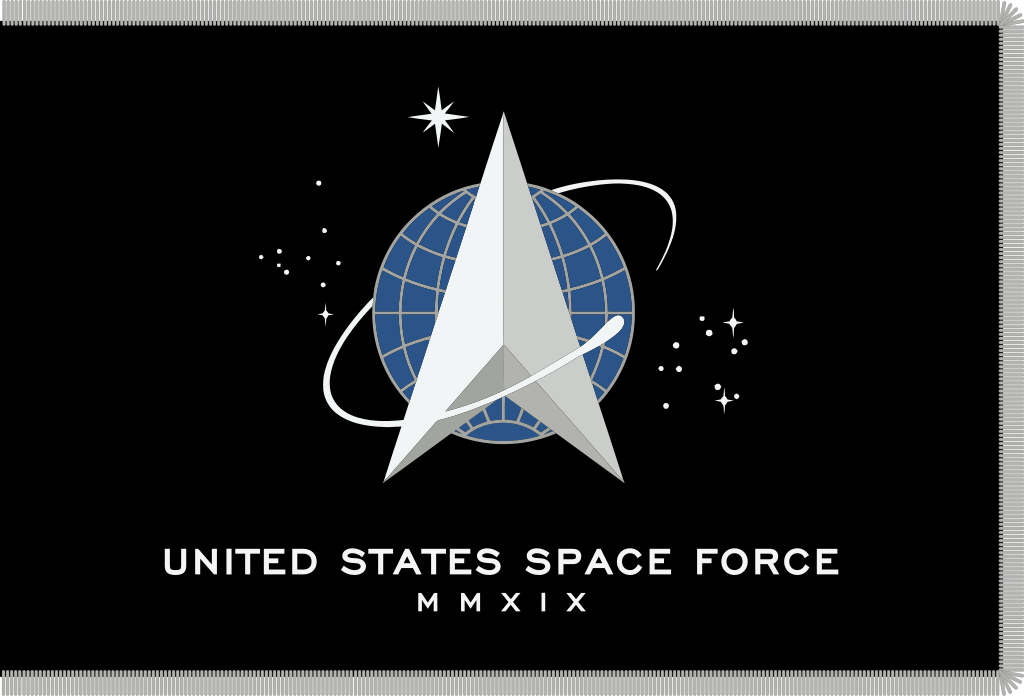
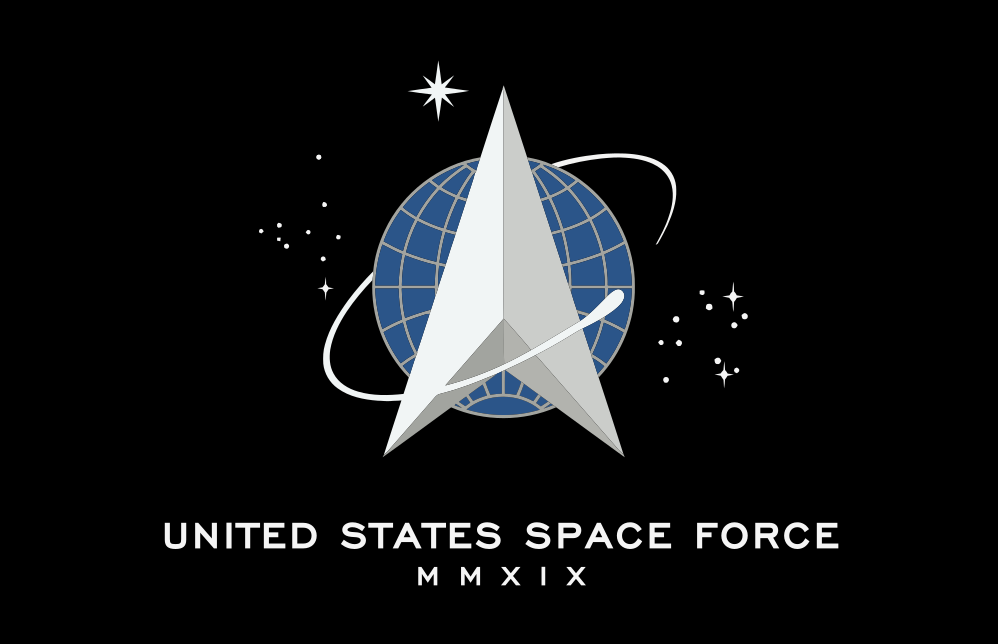
reorganized header, added clean flag

diff --git a/frontend/checker/src/App.css b/frontend/checker/src/App.css
@@ -16,40 +16,35 @@ h2 {
   background-color: rgb(187, 176, 176, 0.9);
 }
 
-team {
+.team {
   background-image: linear-gradient(silver, rgb(29, 79, 95)), radial-gradient(circle at top left, grey,navy);
 }
-#jacob {
+
+.team > img{
+  
+  height: 100px;
+  width: 100px;
+
+}
+
+.member {
   display: flex;
-  flex-direction: column;
+  flex-direction: row;
   justify-content: center;
   align-items: center;
+}
+
+#jacob {
+  /* display: flex;
+  flex-direction: column;
+  justify-content: center;
+  align-items: center; */
 }
 
 #jacob > article {
   background-color: rgb(187, 176, 176, 0.9);
 }
 
-#ryan {
-  display: flex;
-  flex-direction: column;
-  justify-content: center;
-  align-items: center;
-}
-
-#ronald {
-  display: flex;
-  flex-direction: column;
-  justify-content: center;
-  align-items: center;
-}
-
-#josh {
-  display: flex;
-  flex-direction: column;
-  justify-content: center;
-  align-items: center;
-}
 
 .score {
   color: red;
@@ -75,9 +70,11 @@ button {
   cursor: crosshair;
   transition: border-color 0.25s;
 }
+
 button:hover {
   border-color: silver;
 }
+
 button:focus,
 button:focus-visible {
   outline: 4px auto -webkit-focus-ring-color;
@@ -85,10 +82,8 @@ button:focus-visible {
 
 header {
     position: center;
-    /* top: auto ; */
     width: 100%;
-    /* height: 16vh; */
-    margin: -0.4rem;
+    margin: 0;
     background: darkgray;
     border: solid transparent .4rem;
     
@@ -108,6 +103,12 @@ header {
 
 }
 
+header > mid > icons {
+  display: flex;
+  flex-direction: row;
+  justify-content: space-around;
+}
+
 body {
   background-image: url(assets/images/Flag_of_the_United_States_Space_Force.png);
   background-position-y: center;
@@ -117,14 +118,12 @@ body {
     background-repeat: no-repeat;
     background-color: rgb(189, 186, 186, .4);
     width: 100%;
-    /* height: 100%; */
 
     margin: 0;
-  display: flex;
   place-items: center;
   justify-content: space-around;
-  min-width: 100;
-  min-height: 100vh;
+  min-width: auto;
+  max-height: 100%;
 }
 
 main {
@@ -138,15 +137,13 @@ main {
     width: 100%;
     margin: auto;
     display: flex;
-
-    
 }
 
 ul {
   list-style: none;
 }
 
-p1 {
+.p1 {
   border: solid 3px rgba(169, 169, 169, 0.4);
     background-image: url(assets/images/tardigrade1.jpg);
     grid-area: "p1";
@@ -156,15 +153,16 @@ p1 {
     background-size: cover;
     background-repeat: no-repeat;
     background-size: 100px; */
-    width: 200px;
+    width: 100px;
     height: 100px;
     
 }
 
-p2 {
+.p2 {
   border: solid 3px rgba(169, 169, 169, 0.4);
     background: rgba(169, 169, 169, 0.7) transparent;
 }
+
 article {
   flex-direction: column;
 
@@ -176,11 +174,13 @@ game-board {
     background-color: rgb(189, 186, 186, .4);
     width: -moz-fit-content;
     width: fit-content;
+    max-width: auto;
     
   border: solid 4px rgb(8, 8, 8, 0.3);
   border-radius: 5px;
+  grid-area: "board";
   display: flex;
-  flex-direction: column;
+  /* flex-direction: column; */
   position: center;
   align-self: center;
   cursor: crosshair;
@@ -214,12 +214,6 @@ game-board {
   height: 100px;
 }
 
-.team > img {
-  box-sizing: content-box;
-  background-color: gray;
-  height: auto;
-  width: 100px;
-}
 
 .logo {
   height: 6em;

diff --git a/frontend/checker/src/App.jsx b/frontend/checker/src/App.jsx
@@ -1,13 +1,9 @@
-import { useState } from "react";
-// import { AuthProvider } from './contexts/AuthContext'
+
 import { BrowserRouter as Router, Routes, Route} from "react-router-dom";
-import { Navigate, useNavigate} from "react-router-dom";
-import { Link } from "react-router-dom";
 
 import Board from "./components/Board";
 
 import "./App.css";
-import Score from "./components/Score";
 import Team from "./components/Team";
 import Jacob from "./components/Jacob";
 import Header from "./components/Header";
@@ -17,15 +13,20 @@ function App() {
     <>
       
       <div>
-        <main>
+        <>
           <Router>
             <Routes>
               
               <Route
-                path="/game"
+                path="/"
                 element={
                   <>
-                    <Header/>  <Board/> 
+                  <span>
+                    <Header/> 
+                  </span>
+                  <main>
+                    <Board/> 
+                  </main>
                   </>
                 }
               />
@@ -33,6 +34,9 @@ function App() {
                 path="/team"
                 element={
                   <>
+                  <span>
+                    <Header/> 
+                  </span>
                     <Team/> 
                   </>
                 }
@@ -41,13 +45,16 @@ function App() {
                 path="/jacob"
                 element={
                   <>
+                  <span>
+                    <Header/> 
+                  </span>
                     <Jacob/> 
                   </>
                 }
               />
             </Routes>
           </Router>
-        </main>
+        </>
       </div>
     </>
   );

diff --git a/frontend/checker/src/components/Team.jsx b/frontend/checker/src/components/Team.jsx
@@ -3,27 +3,27 @@ const Team = () => {
     return (
     <article className="team">
     
-                  <div id="ryan">
+                  <div className="member" id="ryan">
                   <img src="./src/assets/images/CS-heathers.jpg" alt="Probably the same guy" />
                   <h2>
                   Ryan brings a high level of professionalism to yelling at inanimate objects, and he&apos;s probably not a sociopath!
                   </h2>
                   </div>
 
-                  <div id="ronald">
+                  <div className="member" id="ronald">
                   <img src="./src/assets/images/hannibal.jpg" alt="Rons real job" />
                   <h2>
                   Ronald brings integrity and commitment to the team, and is never afraid to speak up in his own defense!
                   </h2>
                   </div>
 
-                  <div id="josh">
+                  <div className="member" id="josh">
                   <img src="./src/assets/images/sammy.jpg" alt="Josh IRL" />
                   <h2>
                   Josh just kind of stares at the code like this until it works right.
                   </h2>
                   </div>
-                  <a href="/game">
+                  <a href="/">
                   <button >Close</button>
                   </a>
             </article>

diff --git a/frontend/checker/src/components/Header.jsx b/frontend/checker/src/components/Header.jsx
@@ -12,7 +12,9 @@ const Header = () => {
           </button>
         </a>
       </team>
+      <mid>
       <h1>Space Checkers</h1>
+      <icons>
       <div className="player" id="p1">
               <img src="./src/assets/images/tardigrade1.jpg" alt="This" />
               </div>
@@ -24,6 +26,8 @@ const Header = () => {
               <div className="player" id="p2">
                 <img src="./src/assets/images/DeltaGlobeOrbit.png" alt="Space Force!" />
               </div>
+              </icons>
+              </mid>
       <nav>
         <button title="Set Player Name">Set Name</button>
         <button title="Start new Game">New Game</button>

diff --git a/frontend/checker/src/components/Jacob.jsx b/frontend/checker/src/components/Jacob.jsx
@@ -1,17 +1,16 @@
 const Jacob = () => {
   return (
     <article className="team">
-      <div id="jacob">
+      <div className="member" id="jacob">
         <img
           src="./src/assets/images/paladin.jpg"
           alt="Probably the same guy"
         />
         <h2>
-          Les autorit&eacute;s
-          m&apos;ont surpris en train de faire l&apos;amour au Louvre !
+        Laissez le bon temps rouler!
         </h2>
       </div>
-        <a href="/game">
+        <a href="/">
       <button>Close</button>
       </a>
     </article>
